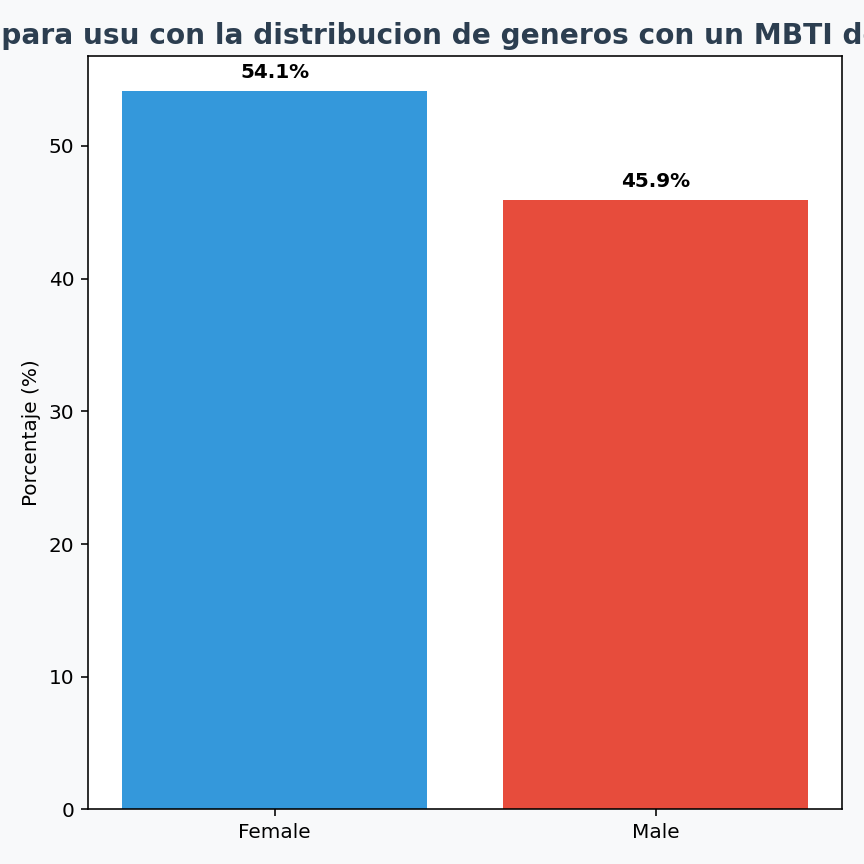
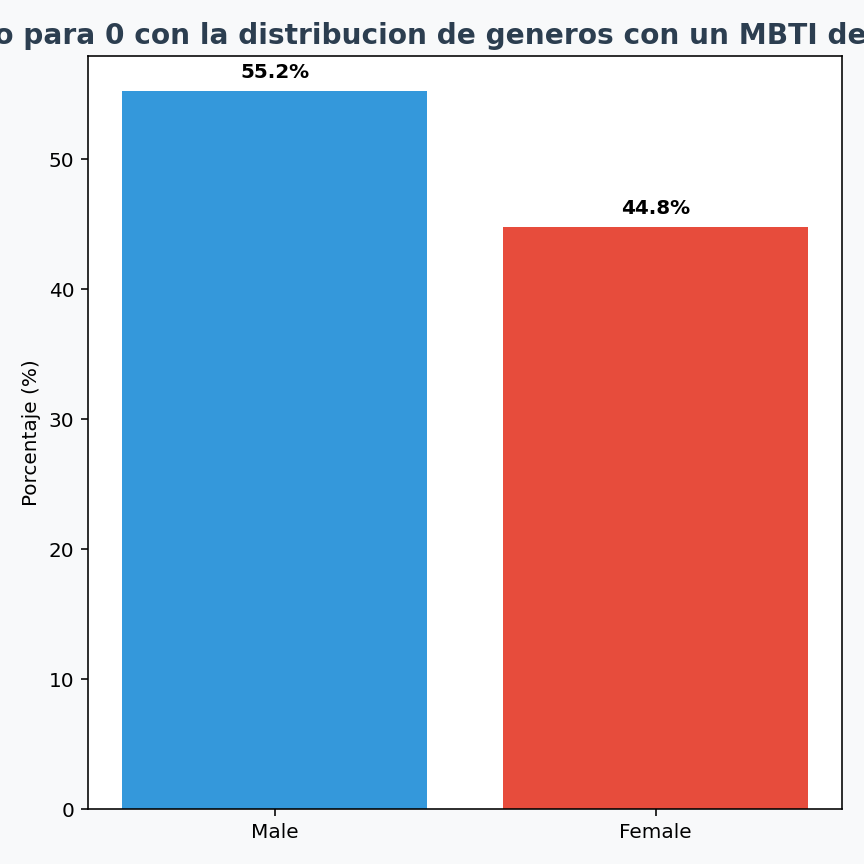
requiremets, gitignore

diff --git a/src/graficos.py b/src/graficos.py
@@ -31,7 +31,7 @@ def graficar_torta_usuario(afinidades, nombre):
         startangle=90       # empieza desde arriba
     )
 
-    plt.title('Afinidad para {nombre} por cada letra de su MBTI')
+    plt.title(f'Afinidad para {nombre} por cada letra de su MBTI')
 
     plt.tight_layout()  #acomoda elementos del gráfico para que no se superpongan ni queden cortados
     plt.savefig("outputs/graficos/graficar_torta_usuario.png")
